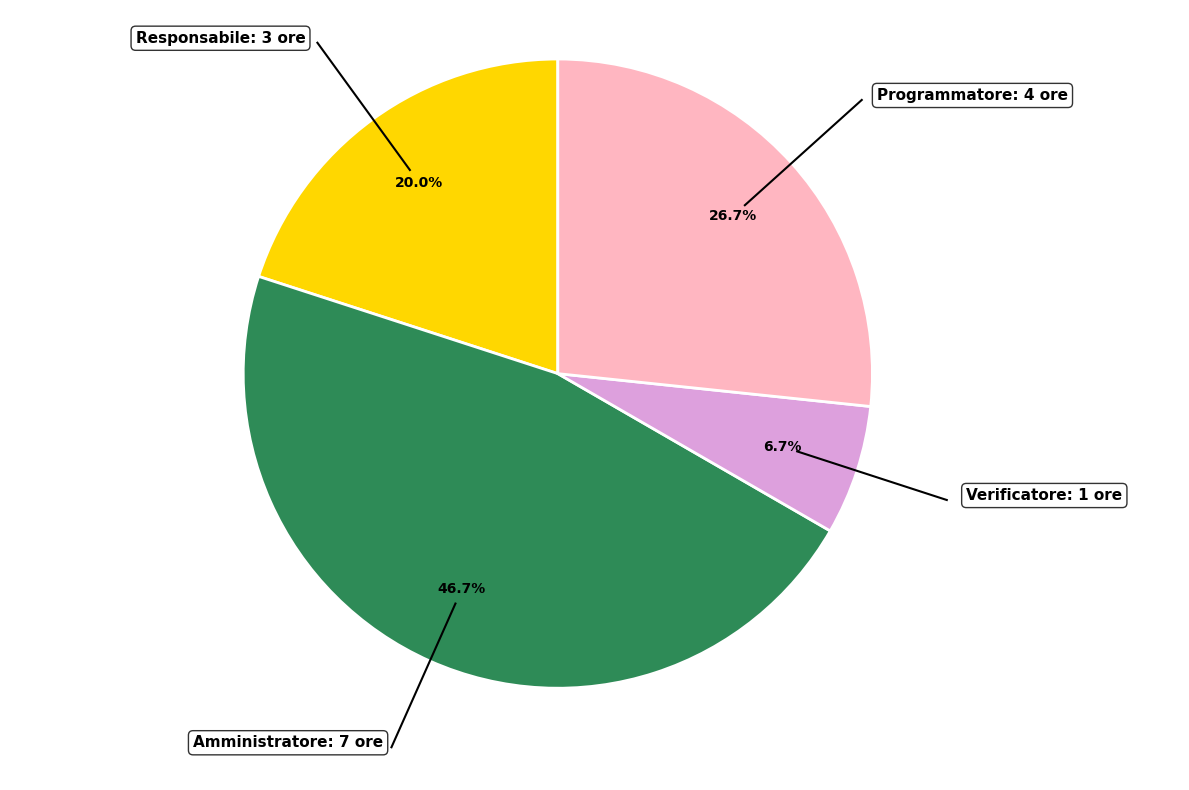
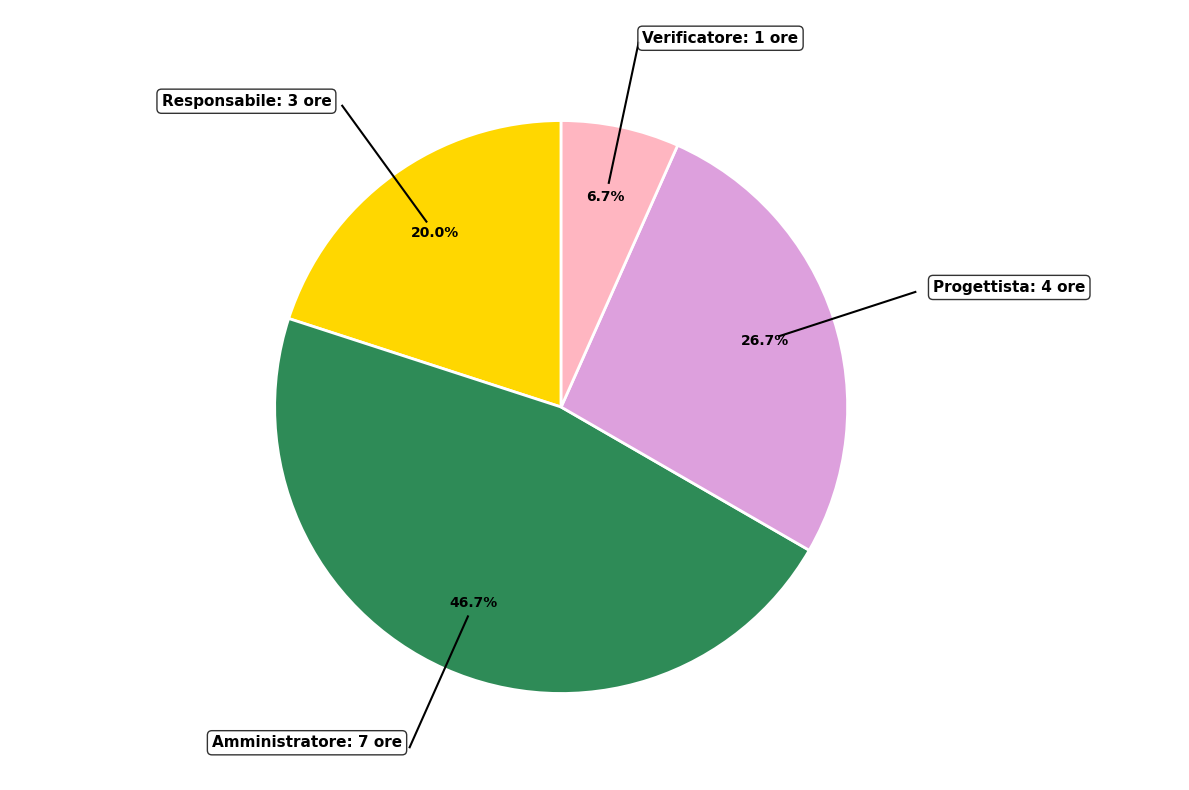
Fix

diff --git a/src/PB/Documenti Esterni/Piano di Progetto/sprint/sprint01.tex b/src/PB/Documenti Esterni/Piano di Progetto/sprint/sprint01.tex
@@ -74,6 +74,47 @@ Oltretutto L. Pieripolli e L. Marcuzzo hanno avuto un preventivo di ore minore p
 	\caption{Sprint 1: Preventivo}
 \end{figure}
 
+\subsubsubsection{Consuntivo}
+Le risorse effettivamente utilizzate sono nella seguente tabella:\\
+\begin{table}[H]
+	\centering
+	\makebox[\textwidth][c]{%
+		\begin{minipage}{1.2\textwidth}
+			\centering
+			% Prima tabella senza bordi per le intestazioni ruotate
+			\begin{tabular}{p{0.2\textwidth}p{0.12\textwidth}p{0.12\textwidth}p{0.12\textwidth}p{0.12\textwidth}p{0.12\textwidth}p{0.12\textwidth}}
+				& \rotatebox{45}{\textbf{Responsabile$^G$}} &
+				\rotatebox{45}{\textbf{Amministratore$^G$}} & \rotatebox{45}{\textbf{Analista$^G$}} &
+				\rotatebox{45}{\textbf{Programmatore$^G$}} & \rotatebox{45}{\textbf{Verificatore$^G$}} & \rotatebox{45}{\textbf{Progettista$^G$}} \\
+			\end{tabular}
+			
+			\vspace{0.2cm} % Piccolo spazio tra le due tabelle
+			
+			% Seconda tabella con i dati e i bordi
+			\begin{tabular}{|p{0.2\textwidth}|p{0.12\textwidth}|p{0.12\textwidth}|p{0.12\textwidth}|p{0.12\textwidth}|p{0.12\textwidth}|p{0.12\textwidth}|}
+				\hline
+				M. Mazzaretto & - & 4 \textcolor{green}{(-2)} & - & - & 1 & - \\ \hline
+				T. Ceron      & - & 3.5 \textcolor{green}{(-2.5)} & - & - & 1 & - \\ \hline
+				L. Pieripolli & 3 \textcolor{green}{(-1)} & - & - & - & 1 & - \\ \hline
+				L. Marcuzzo   & - & - & 2.5 \textcolor{green}{(-1.5)} & - & - & - \\ \hline
+				M. Brunello   & - & 5.5 \textcolor{green}{(-0.5)} & - & - & 1 & - \\ \hline
+				L. Casagrande & - & - & 5 \textcolor{green}{(-1)} & - & - & - \\ \hline
+			\end{tabular}
+		\end{minipage}
+	}
+	\caption{Sprint 1: Consuntivo}
+\end{table}
+Il totale consuntivato per lo sprint$^G$ è \textbf{597.5€}.\\
+
+C'è stata una sovrastima delle ore produttive causate dal continuo studio della documentazione ma la poca messa in opera dell'effettiva stesura.\\ 
+L'implementazione della Branch$^G$ Protection ha portato ad un aumento di ore a M. Brunello maggiore dei suoi compagni a causa della sottostima del rischio tecnologico.
+
+\begin{figure}[H]
+	\centering
+	\includegraphics[width=0.8\textwidth]{PianoProgetto/sprint01_consuntivo}
+	\caption{Sprint 1: Consuntivo}
+\end{figure}
+
 \subsubsubsection{Retrospettiva}
 Al termine dello Sprint$^G$, è stata confermata la chiusura di tutte le attività inserite nelle attività da svolgere con l'aggiunta dello script menzionato precedentemente.
 

diff --git a/src/PB/Documenti Esterni/Piano di Progetto/sprint/sprint08.tex b/src/PB/Documenti Esterni/Piano di Progetto/sprint/sprint08.tex
@@ -4,8 +4,8 @@
 
 \begin{tabular}{p{0.25\textwidth} p{0.2\textwidth}}
 	\textbf{Inizio} & 03/03/2026 \\
-	\textbf{Fine prevista} & 17/03/2026 \\
-	\textbf{Fine reale} &  - - - \\
+	\textbf{Fine prevista} & 09/03/2026 \\
+	\textbf{Fine reale} &  - \\
 	\textbf{Giorni di ritardo} & -
 \end{tabular}
 \newline \newline 
@@ -53,7 +53,7 @@ Si prospetta l'utilizzo delle seguenti risorse:
 			\end{tabular}
 		\end{minipage}
 	}
-	\caption{Sprint 7: Preventivo}
+	\caption{Sprint 8: Preventivo}
 \end{table}
 
 Il totale preventivato per lo sprint è \textbf{330€}.\\
@@ -61,5 +61,5 @@ Il totale preventivato per lo sprint è \textbf{330€}.\\
 \begin{figure}[H]
 	\centering
 	\includegraphics[width=0.8\textwidth]{PianoProgetto/sprint08_preventivo}
-	\caption{Sprint 7: Preventivo}
+	\caption{Sprint 8: Preventivo}
 \end{figure}

diff --git a/src/PB/Documenti Esterni/Piano di Progetto/content/lungo_termine.tex b/src/PB/Documenti Esterni/Piano di Progetto/content/lungo_termine.tex
@@ -83,6 +83,8 @@ Le attività previste per la PB (Product Baseline) sono riassunte nella tabella 
 		\textbf{Norme di Progetto} & Documento interno che descrive il Way of Working del gruppo nel dettaglio. \\
 		\hline
 		\textbf{Glossario} & Documento interno che permette di facilitare la comprensione di parole tecniche nella comunicazione fra il gruppo e la proponente. \\
+		\textbf{Lettera di presentazione PB$^G$} & Simile alla Lettera di Presentazione per la RTB, esprime la volontà del gruppo di partecipare alla revisione per la PB. \\
+		\hline
 		\hline
 	\end{tabular}}
 	\caption{Attività previste per la Product Baseline}
